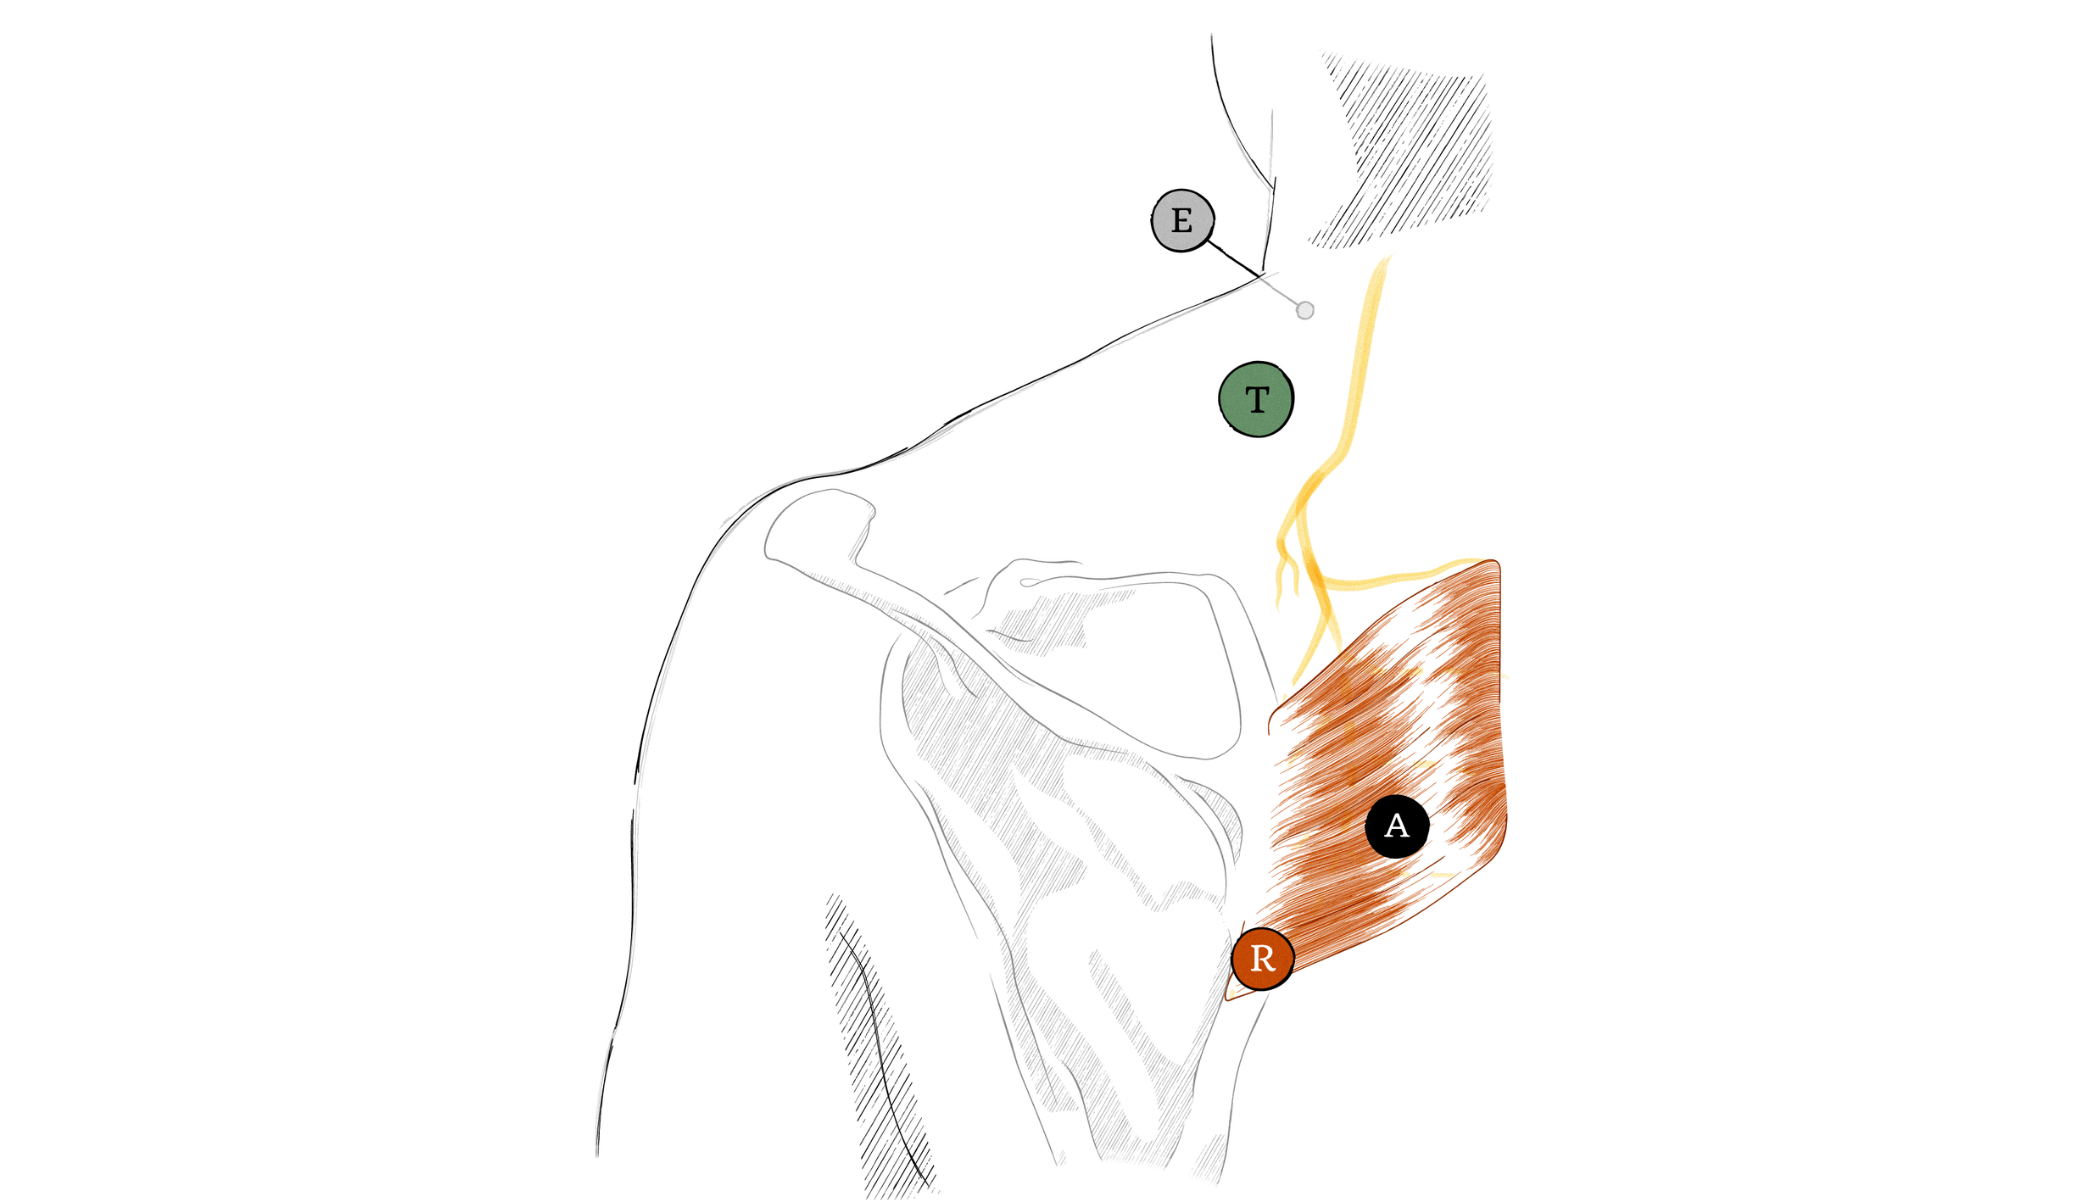
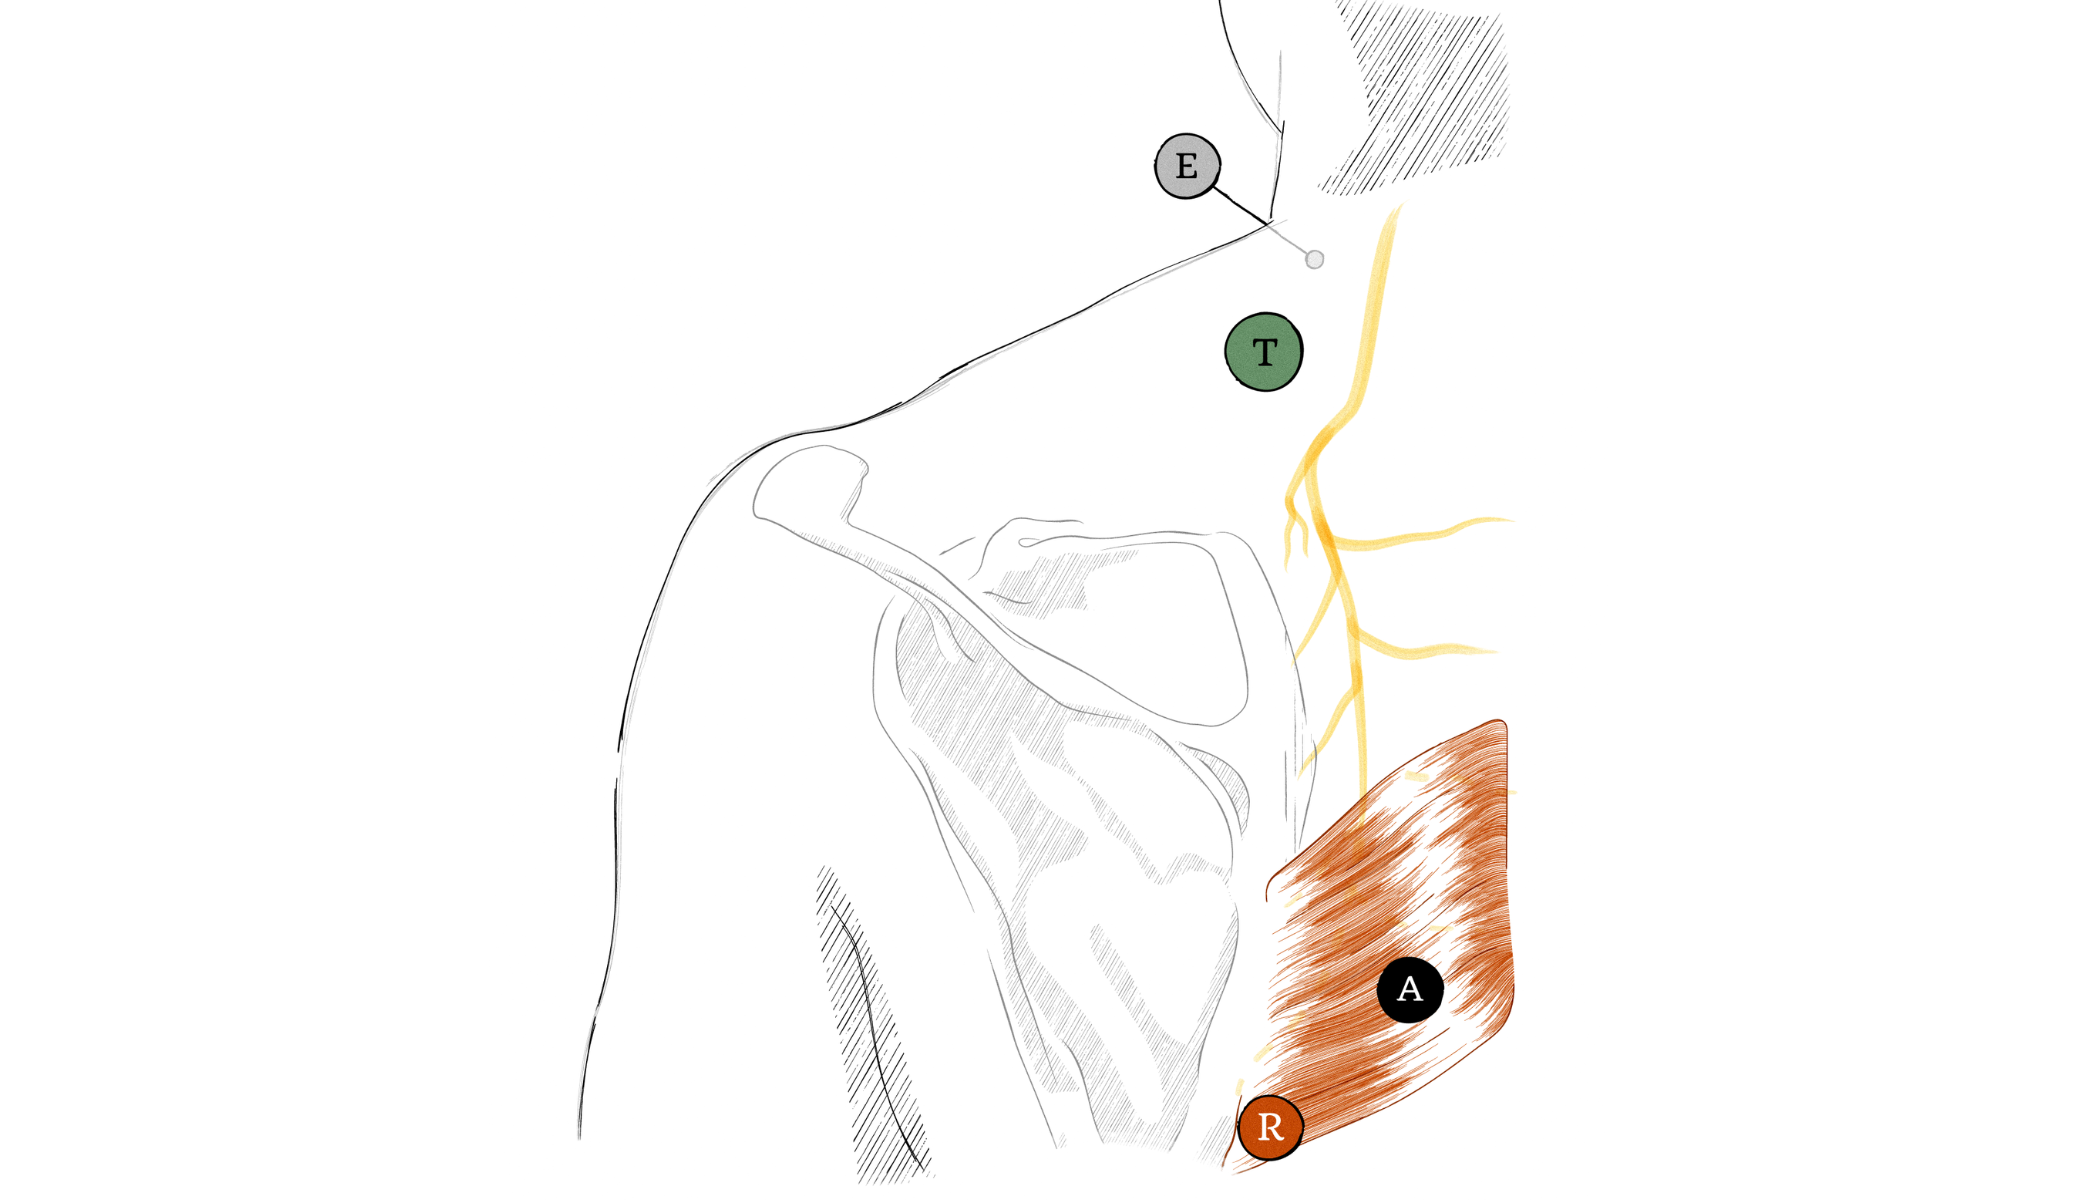
Cambios en tecnicas 30/04/25

diff --git a/app/Tecnicas/Componentes/Neurografia/EscapularDorsal/EscapularDorsal.css b/app/Tecnicas/Componentes/Neurografia/EscapularDorsal/EscapularDorsal.css
@@ -112,11 +112,11 @@
 
 .btnEd1 {
     position: absolute;
-    height: 2vw;
-    width: 2vw;
+    height: 2.4vw;
+    width: 2.4vw;
     top: 30%;
     left: 45%;
-    transform: translate(410%, 640%);
+    transform: translate(340%, 695%);
     background-color: transparent;
     border: none;
     border-radius: 50%;
@@ -127,11 +127,11 @@
 }
 .btnEd2 {
     position: absolute;
-    height: 2vw;
-    width: 2vw;
+    height: 2.4vw;
+    width: 2.4vw;
     top: 30%;
     left: 45%;
-    transform: translate(600%, 450%);
+    transform: translate(505%, 530%);
     background-color: transparent;
     border: none;
     border-radius: 50%;
@@ -142,11 +142,11 @@
 }
 .btnEd3 {
     position: absolute;
-    height: 2.4vw;
-    width: 2.4vw;
+    height: 2.8vw;
+    width: 2.8vw;
     top: 30%;
     left: 45%;
-    transform: translate(325%, -145%);
+    transform: translate(275%, -205%);
     background-color: transparent;
     border: none;
     border-radius: 50%;
@@ -157,11 +157,11 @@
 }
 .btnEd4 {
     position: absolute;
-    height: 2vw;
-    width: 2vw;
+    height: 2.4vw;
+    width: 2.4vw;
     top: 30%;
     left: 45%;
-    transform: translate(290%, -415%);
+    transform: translate(240%, -455%);
     background-color: transparent;
     border: none;
     border-radius: 50%;
